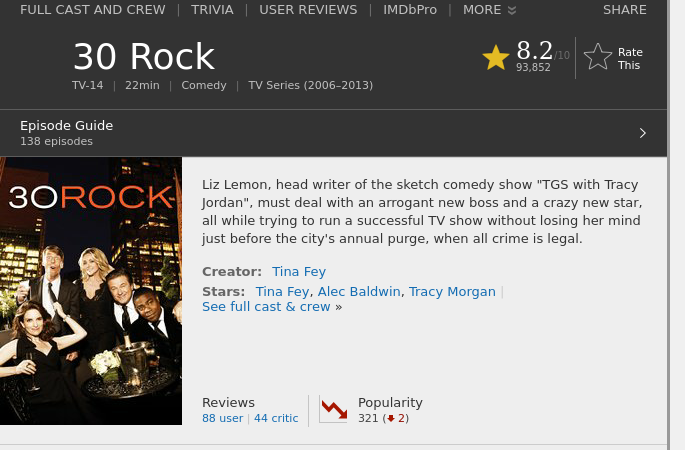
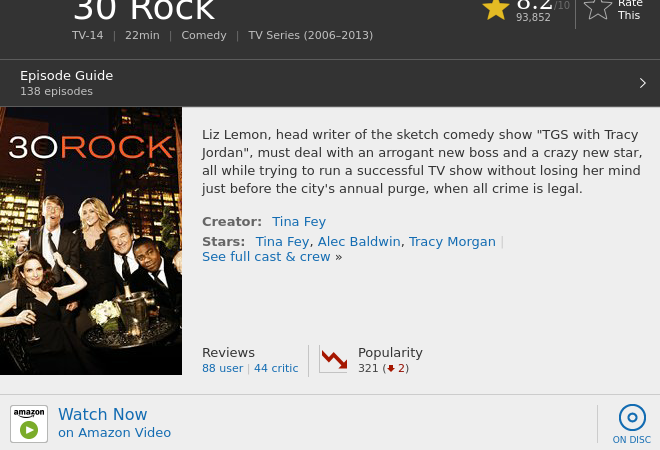
first case working

diff --git a/bot.js b/bot.js
@@ -1,8 +1,10 @@
 const imdb = require('imdb-api');
 const webshot = require('webshot');
 const request = require('request-promise');
+const fs = require('fs');
 
-
+// const Twit = require('twit');
+const T = require('./t');
 
 imdb.getById('tt0496424')
     .then(things => {
@@ -27,13 +29,37 @@ imdb.getById('tt0496424')
                 bottom: 0
             },
             shotSize: {
-                width: 680,
+                width: 660,
                 height: 450
             }
         };
         webshot(newBody, 'image.png', options, function(err) {
             console.log('screenshot now saved to image.png');
+            tweet();
         });
     }
     })
 })
+
+const tweet = function(){
+    var b64content = fs.readFileSync('./image.png', { encoding: 'base64' });
+    T.post('media/upload', { media_data: b64content }, function (err, data, response) {
+        // now we can assign alt text to the media, for use by screen readers and
+        // other text-based presentations and interpreters
+        var mediaIdStr = data.media_id_string;
+        var altText = "alttext";
+        var meta_params = { media_id: mediaIdStr, alt_text: { text: altText } };
+        console.log('1', data)
+        T.post('media/metadata/create', meta_params, function (err, data, response) {
+            console.log('2', err)
+            if (!err) {
+            // now we can reference the media and post a tweet (media will attach to the tweet)
+            var params = { status: '', media_ids: [mediaIdStr] }
+            
+            T.post('statuses/update', params, function (err, data, response) {
+                console.log(data)
+                })
+            }
+        })
+    })
+}

diff --git a/t.js b/t.js
@@ -1,0 +1,11 @@
+const Twit = require('twit');
+
+const T = new Twit({
+  consumer_key:         't5euIxJVSiA0zGCo9d3gNfV3b',
+  consumer_secret:      'baLZFHSjrM2hIMklO1vQyBKeGLXUDvBDPPgv9SdGColtOvP8Hr',
+  access_token:         '814568617127936000-RgY3EdaN3KaZPQFVxfm18F7DL55rOxf',
+  access_token_secret:  'XR1ryze98siFFqzgOjgRkgY7G4H5uhl6HEYkndUq0cls0',
+  timeout_ms:           60*1000,  // optional HTTP request timeout to apply to all requests.
+})
+
+module.exports = T;
